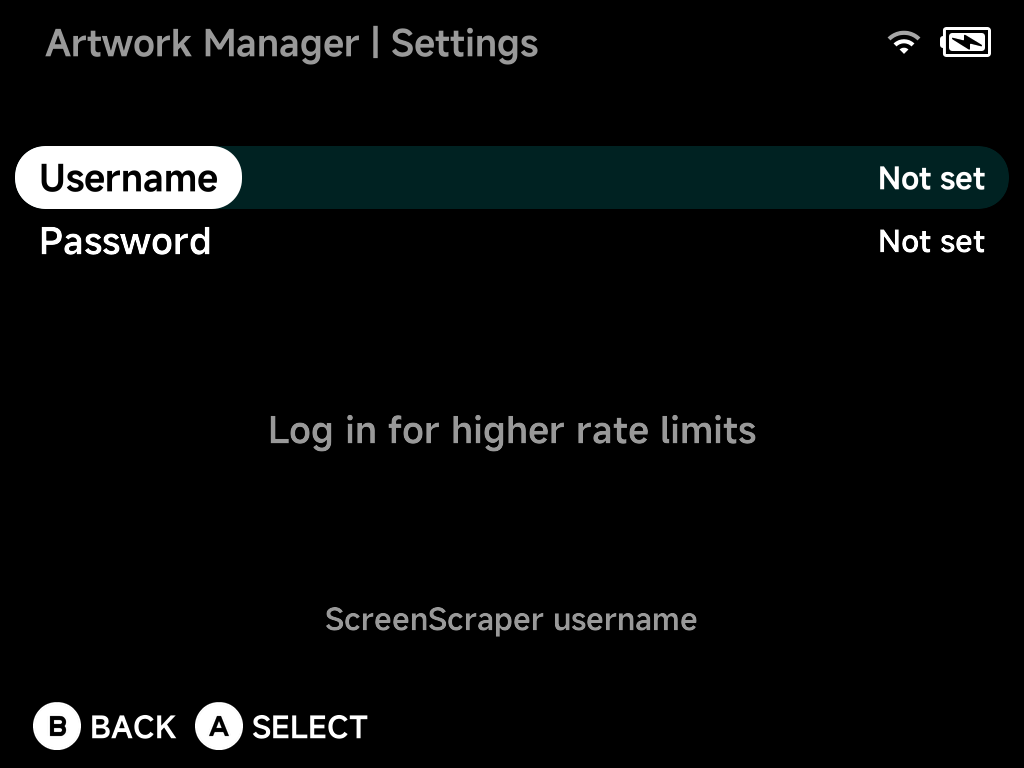
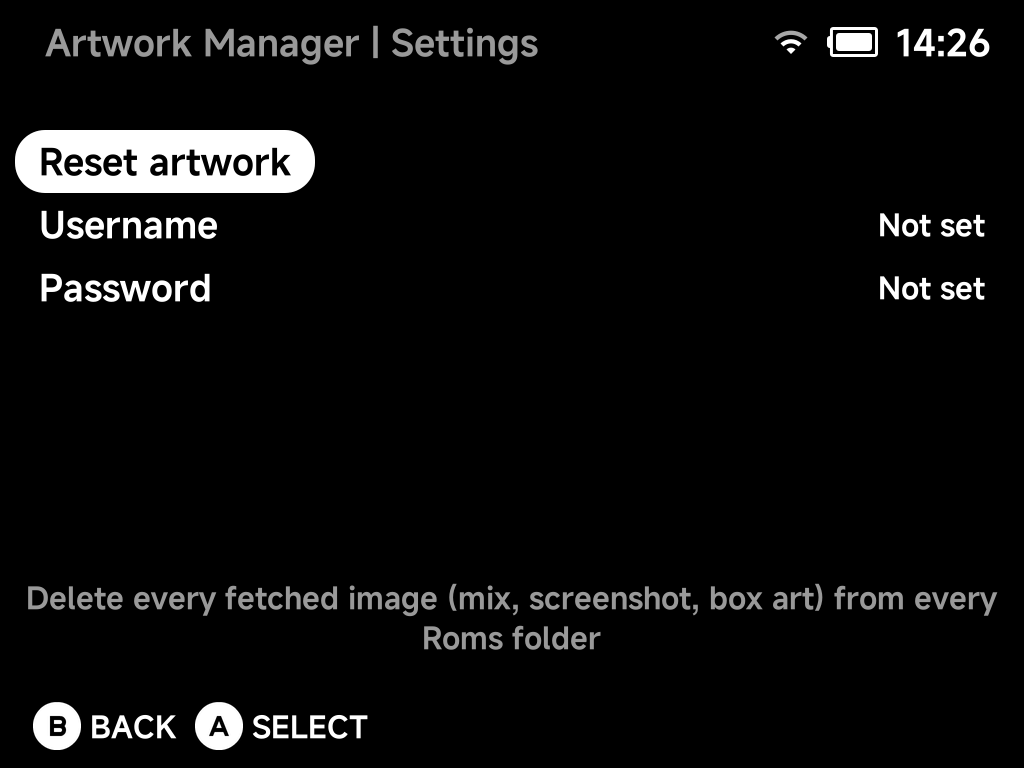
docs: game art style and type, artwork variants and the v1.9.0 re-fetch note

diff --git a/docs/settings/appearance.md b/docs/settings/appearance.md
@@ -67,7 +67,59 @@ Radius of the rounded corners on game art.
 
 ## Game art width
 
-Percentage of the screen width used for game art.
+Percentage of the screen width used for game art: the size of the image on
+the right, and the width left over for game titles. This applies to the
+**Thumbnail** style only. The **Background** style has fixed geometry and
+caps titles at 85% of the screen width.
+
+## Game art style
+
+How game art is shown in the game list.
+
+- **Thumbnail** (default) — the art sits on the right side of the screen at
+  the size set by *Game art width*, with rounded corners.
+- **Background** — the image is scaled so its height matches the screen, with
+  nothing cropped, and fades diagonally into the list background. The fade
+  runs from 40% in from the right edge at the top of the screen to 60% in at
+  the bottom, and from 20% to 40% on the 16:9 Smart Pro S, whose wider screen
+  would otherwise carry the fade much further across. It reaches full strength
+  only at the right edge and stays near invisible for a long stretch at the
+  dark end, so a bright screenshot blends into the background rather than
+  starting at a visible line. The image is also pushed 30% of its width off
+  the right edge, so more of its middle is in view. A screenshot that is
+  taller than it is wide is a stacked two-screen shot (a Nintendo DS one is
+  both screens, one above the other): it is sized to the width of the art
+  area and the top part that fills the screen height is used, rather than
+  squeezing both screens into a narrow strip. Game titles may use 85% of the
+  screen width and glide over the image, so long names stop short of its
+  brightest part. *Game art corner radius* and *Game art width* do not apply
+  in this style.
+
+In the Background style the screenshot is always used, regardless of *Game
+art type* (see below), and a game with no screenshot shows an empty
+background rather than a different image.
+
+## Game art type
+
+Which of the fetched images the game list shows: **Mix** (default, the
+screenshot with box art and logo floating over it), **Screenshot** or
+**Box art**. The [Artwork Manager](../apps/artwork-manager.md) stores all
+three per game; when the chosen one is missing for a game, the Mix image is
+shown instead.
+
+This setting applies to the **Thumbnail** style, where a missing variant
+falls back to the Mix image. The **Background** style always uses the
+screenshot, because a mix composite's floating box art and logo read as
+clutter once the image spans the whole screen; a game whose screenshot has
+not been fetched shows an empty background instead of falling back.
+
+!!! note "Upgrading from v1.9.0 or older"
+    Releases up to v1.9.0 saved only the Mix image. **Screenshot** and
+    **Box art** therefore fall back to it, and the **Background** style,
+    which never falls back, shows nothing at all for art fetched back then.
+    To get the extra images for an existing library, open **Artwork Manager
+    → Settings → Reset artwork**, then queue your systems again from the
+    Library page.
 
 ## Show folder names at root
 

diff --git a/docs/apps/artwork-manager.md b/docs/apps/artwork-manager.md
@@ -1,6 +1,7 @@
 # Artwork Manager
 
-**Tools → Artwork Manager** fetches custom mix box art for your ROMs in bulk.
+**Tools → Artwork Manager** fetches box art, screenshots and a mix composite
+for your ROMs in bulk.
 
 ![Artwork Manager](../assets/screenshots/artwork-manager.png)
 
@@ -26,13 +27,49 @@ the game lists immediately.
     [context menu](../guide/context-menu.md) — no need to open the Artwork
     Manager at all.
 
+## What gets saved
+
+Every fetch stores up to three images per game inside the system's `.media`
+folder, from a single set of ScreenScraper downloads:
+
+| File | Content |
+|---|---|
+| `.media/<game>.png` | **Mix** — screenshot with the box art and logo floating over it |
+| `.media/screenshot/<game>.png` | the in-game screenshot on its own |
+| `.media/boxart/<game>.png` | the box art on its own |
+
+A variant is skipped when ScreenScraper has no such image for a game. Which
+one the game list shows is a launcher setting: **Settings → Appearance →
+[Game art type](../settings/appearance.md)** (Mix / Screenshot / Box art),
+next to **Game art style** (thumbnail or full-height background). If the
+chosen variant is missing for a game, the list falls back to the Mix image.
+The **Background** style always uses the screenshot, whatever the type is set
+to, and shows an empty background for a game whose screenshot has not been
+fetched.
+
+!!! note "Upgrading from v1.9.0 or older"
+    Releases up to v1.9.0 saved only the Mix image. **Screenshot** and
+    **Box art** therefore fall back to it, and the **Background** art style,
+    which never falls back, shows nothing at all for art fetched back then.
+    To get the extra images for an existing library, open **Artwork Manager
+    → Settings → Reset artwork**, then queue your systems again from the
+    Library page.
+
+## Settings — reset
+
+![Artwork Manager Settings](../assets/screenshots/artwork-settings.png)
+
+- **Reset artwork** — after a confirmation, deletes every fetched image
+  (Mix, screenshot and box art) inside the `.media` folder of every system
+  folder under `Roms`, including systems the scraper does not recognise,
+  folder games and leftovers from renamed ROMs. The folder backgrounds
+  `bg.png` and `bglist.png` are kept. Refused while a queue is still running.
+
 ## Settings — your ScreenScraper account
 
 Artwork comes from [ScreenScraper](https://www.screenscraper.fr/). Fetching
 works **without any account**, but anonymous access shares a limited request
 budget — fine for a game here and there, slow going for a whole library.
-
-![Artwork Manager Settings](../assets/screenshots/artwork-settings.png)
 
 Enter your own (free) ScreenScraper **username** and **password** here and
 every fetch runs on your account's allowance instead:
